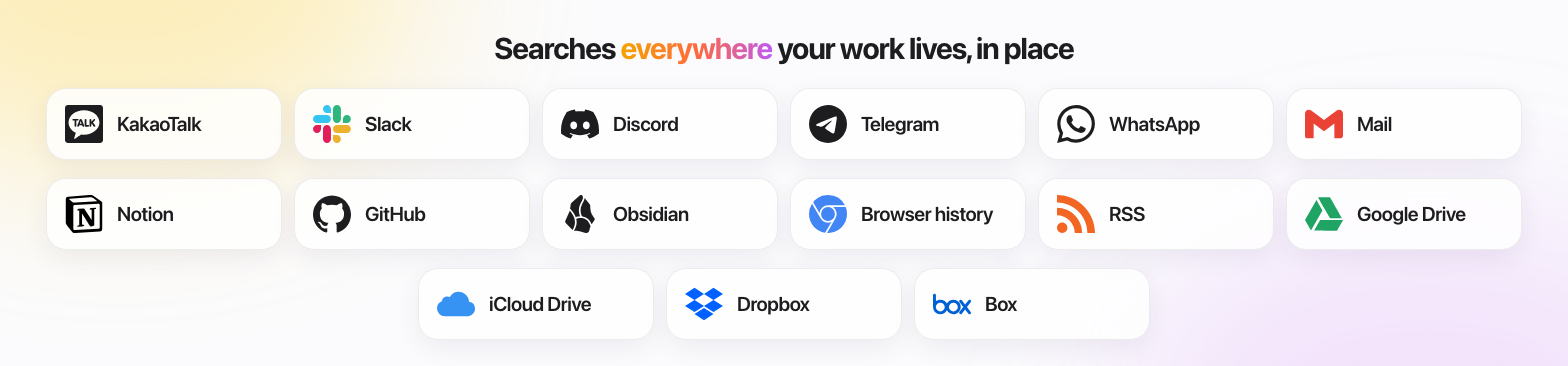
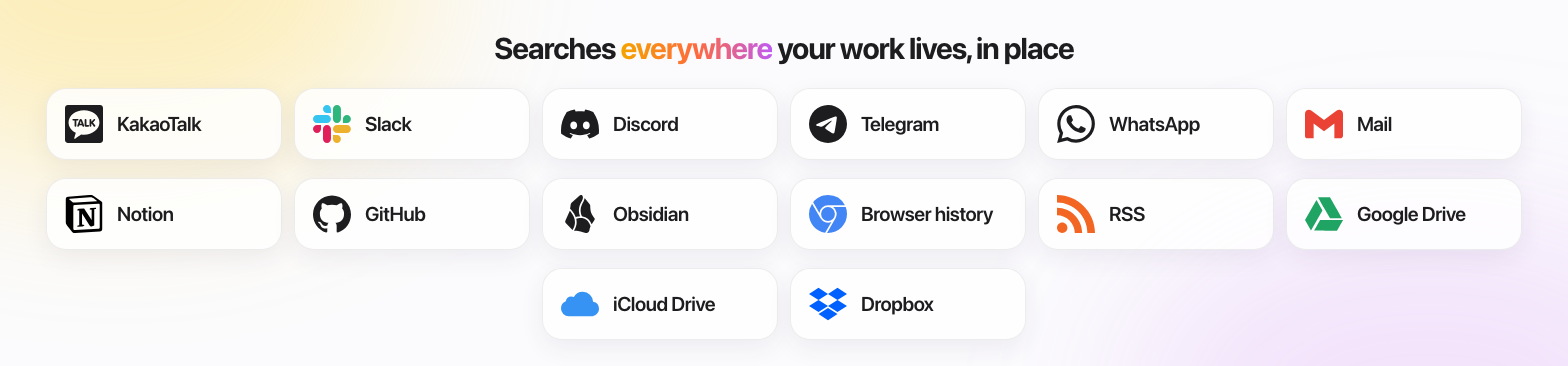
docs(readme): drop Box from the supported-sources strip

Changed region(s): [[0.2812, 0.7814, 0.6562, 0.8716]]

diff --git a/assets/banner-src/datasources.html b/assets/banner-src/datasources.html
@@ -9,4 +9,4 @@ h2 em{font-style:normal;background:linear-gradient(90deg,#f5a300,#ff6a3d 50%,#bf
 .t{width:236px;height:72px;display:flex;align-items:center;gap:14px;padding:0 18px;border-radius:20px;background:rgba(255,255,255,.82);border:1px solid rgba(0,0,0,.07);box-shadow:0 8px 24px rgba(60,40,80,.07)}
 .t svg{width:38px;height:38px;flex:none}.t span{font-size:20px;font-weight:600;letter-spacing:-.02em;white-space:nowrap}
 </style><body><div class="glow a"></div><div class="glow b"></div>
-<h2>Searches <em>everywhere</em> your work lives, in place</h2><div class="g"><div class="t"><svg viewBox="0 0 24 24"><path fill="currentColor" d="M22.125 0H1.875C.8394 0 0 .8394 0 1.875v20.25C0 23.1606.8394 24 1.875 24h20.25C23.1606 24 24 23.1606 24 22.125V1.875C24 .8394 23.1606 0 22.125 0zM12 18.75c-.591 0-1.1697-.0413-1.7317-.1209-.5626.3965-3.813 2.6797-4.1198 2.7225 0 0-.1258.0489-.2328-.0141s-.0876-.2282-.0876-.2282c.0322-.2198.8426-3.0183.992-3.5333-2.7452-1.36-4.5701-3.7686-4.5701-6.5135C2.25 6.8168 6.6152 3.375 12 3.375s9.75 3.4418 9.75 7.6875c0 4.2457-4.3652 7.6875-9.75 7.6875zM8.0496 9.8672h-.8777v3.3417c0 .2963-.2523.5372-.5625.5372s-.5625-.2409-.5625-.5372V9.8672h-.8777c-.3044 0-.552-.2471-.552-.5508s.2477-.5508.552-.5508h2.8804c.3044 0 .552.2471.552.5508s-.2477.5508-.552.5508zm10.9879 2.9566a.558.558 0 0 1 .108.4167.5588.5588 0 0 1-.2183.371.5572.5572 0 0 1-.3383.1135.558.558 0 0 1-.4493-.2236l-1.3192-1.7479-.1952.1952v1.2273a.5635.5635 0 0 1-.5627.5628.563.563 0 0 1-.5625-.5625V9.3281c0-.3102.2523-.5625.5625-.5625s.5625.2523.5625.5625v1.209l1.5694-1.5694c.0807-.0807.1916-.1252.312-.1252.1404 0 .2814.0606.3871.1661.0985.0984.1573.2251.1654.3566.0082.1327-.036.2542-.1241.3425l-1.2818 1.2817 1.3845 1.8344zm-8.3502-3.5023c-.095-.2699-.3829-.5475-.7503-.5557-.3663.0083-.6542.2858-.749.5551l-1.3455 3.5415c-.1708.5305-.0217.7272.1333.7988a.8568.8568 0 0 0 .3576.0776c.2346 0 .4139-.0952.4678-.2481l.2787-.7297 1.7152.0001.2785.7292c.0541.1532.2335.2484.4681.2484a.8601.8601 0 0 0 .3576-.0775c.1551-.0713.3041-.2681.1329-.7999l-1.3449-3.5398zm-1.3116 2.4433l.5618-1.5961.5618 1.5961H9.3757zm5.9056 1.3836c0 .2843-.2418.5156-.5391.5156h-1.8047c-.2973 0-.5391-.2314-.5391-.5156V9.3281c0-.3102.2576-.5625.5742-.5625s.5742.2523.5742.5625v3.3047h1.1953c.2974 0 .5392.2314.5392.5156z"/></svg><span>KakaoTalk</span></div><div class="t"><svg viewBox="0 0 256 256"><path fill="#E01E5A" d="M53.841 161.32c0 14.832-11.987 26.82-26.819 26.82S.203 176.152.203 161.32c0-14.831 11.987-26.818 26.82-26.818H53.84zm13.41 0c0-14.831 11.987-26.818 26.819-26.818s26.819 11.987 26.819 26.819v67.047c0 14.832-11.987 26.82-26.82 26.82c-14.83 0-26.818-11.988-26.818-26.82z"/><path fill="#36C5F0" d="M94.07 53.638c-14.832 0-26.82-11.987-26.82-26.819S79.239 0 94.07 0s26.819 11.987 26.819 26.819v26.82zm0 13.613c14.832 0 26.819 11.987 26.819 26.819s-11.987 26.819-26.82 26.819H26.82C11.987 120.889 0 108.902 0 94.069c0-14.83 11.987-26.818 26.819-26.818z"/><path fill="#2EB67D" d="M201.55 94.07c0-14.832 11.987-26.82 26.818-26.82s26.82 11.988 26.82 26.82s-11.988 26.819-26.82 26.819H201.55zm-13.41 0c0 14.832-11.988 26.819-26.82 26.819c-14.831 0-26.818-11.987-26.818-26.82V26.82C134.502 11.987 146.489 0 161.32 0s26.819 11.987 26.819 26.819z"/><path fill="#ECB22E" d="M161.32 201.55c14.832 0 26.82 11.987 26.82 26.818s-11.988 26.82-26.82 26.82c-14.831 0-26.818-11.988-26.818-26.82V201.55zm0-13.41c-14.831 0-26.818-11.988-26.818-26.82c0-14.831 11.987-26.818 26.819-26.818h67.25c14.832 0 26.82 11.987 26.82 26.819s-11.988 26.819-26.82 26.819z"/></svg><span>Slack</span></div><div class="t"><svg viewBox="0 0 24 24"><path fill="currentColor" d="M20.317 4.3698a19.7913 19.7913 0 00-4.8851-1.5152.0741.0741 0 00-.0785.0371c-.211.3753-.4447.8648-.6083 1.2495-1.8447-.2762-3.68-.2762-5.4868 0-.1636-.3933-.4058-.8742-.6177-1.2495a.077.077 0 00-.0785-.037 19.7363 19.7363 0 00-4.8852 1.515.0699.0699 0 00-.0321.0277C.5334 9.0458-.319 13.5799.0992 18.0578a.0824.0824 0 00.0312.0561c2.0528 1.5076 4.0413 2.4228 5.9929 3.0294a.0777.0777 0 00.0842-.0276c.4616-.6304.8731-1.2952 1.226-1.9942a.076.076 0 00-.0416-.1057c-.6528-.2476-1.2743-.5495-1.8722-.8923a.077.077 0 01-.0076-.1277c.1258-.0943.2517-.1923.3718-.2914a.0743.0743 0 01.0776-.0105c3.9278 1.7933 8.18 1.7933 12.0614 0a.0739.0739 0 01.0785.0095c.1202.099.246.1981.3728.2924a.077.077 0 01-.0066.1276 12.2986 12.2986 0 01-1.873.8914.0766.0766 0 00-.0407.1067c.3604.698.7719 1.3628 1.225 1.9932a.076.076 0 00.0842.0286c1.961-.6067 3.9495-1.5219 6.0023-3.0294a.077.077 0 00.0313-.0552c.5004-5.177-.8382-9.6739-3.5485-13.6604a.061.061 0 00-.0312-.0286zM8.02 15.3312c-1.1825 0-2.1569-1.0857-2.1569-2.419 0-1.3332.9555-2.4189 2.157-2.4189 1.2108 0 2.1757 1.0952 2.1568 2.419 0 1.3332-.9555 2.4189-2.1569 2.4189zm7.9748 0c-1.1825 0-2.1569-1.0857-2.1569-2.419 0-1.3332.9554-2.4189 2.1569-2.4189 1.2108 0 2.1757 1.0952 2.1568 2.419 0 1.3332-.946 2.4189-2.1568 2.4189Z"/></svg><span>Discord</span></div><div class="t"><svg viewBox="0 0 24 24"><path fill="currentColor" d="M11.944 0A12 12 0 0 0 0 12a12 12 0 0 0 12 12 12 12 0 0 0 12-12A12 12 0 0 0 12 0a12 12 0 0 0-.056 0zm4.962 7.224c.1-.002.321.023.465.14a.506.506 0 0 1 .171.325c.016.093.036.306.02.472-.18 1.898-.962 6.502-1.36 8.627-.168.9-.499 1.201-.82 1.23-.696.065-1.225-.46-1.9-.902-1.056-.693-1.653-1.124-2.678-1.8-1.185-.78-.417-1.21.258-1.91.177-.184 3.247-2.977 3.307-3.23.007-.032.014-.15-.056-.212s-.174-.041-.249-.024c-.106.024-1.793 1.14-5.061 3.345-.48.33-.913.49-1.302.48-.428-.008-1.252-.241-1.865-.44-.752-.245-1.349-.374-1.297-.789.027-.216.325-.437.893-.663 3.498-1.524 5.83-2.529 6.998-3.014 3.332-1.386 4.025-1.627 4.476-1.635z"/></svg><span>Telegram</span></div><div class="t"><svg viewBox="0 0 24 24"><path fill="currentColor" d="M17.472 14.382c-.297-.149-1.758-.867-2.03-.967-.273-.099-.471-.148-.67.15-.197.297-.767.966-.94 1.164-.173.199-.347.223-.644.075-.297-.15-1.255-.463-2.39-1.475-.883-.788-1.48-1.761-1.653-2.059-.173-.297-.018-.458.13-.606.134-.133.298-.347.446-.52.149-.174.198-.298.298-.497.099-.198.05-.371-.025-.52-.075-.149-.669-1.612-.916-2.207-.242-.579-.487-.5-.669-.51-.173-.008-.371-.01-.57-.01-.198 0-.52.074-.792.372-.272.297-1.04 1.016-1.04 2.479 0 1.462 1.065 2.875 1.213 3.074.149.198 2.096 3.2 5.077 4.487.709.306 1.262.489 1.694.625.712.227 1.36.195 1.871.118.571-.085 1.758-.719 2.006-1.413.248-.694.248-1.289.173-1.413-.074-.124-.272-.198-.57-.347m-5.421 7.403h-.004a9.87 9.87 0 01-5.031-1.378l-.361-.214-3.741.982.998-3.648-.235-.374a9.86 9.86 0 01-1.51-5.26c.001-5.45 4.436-9.884 9.888-9.884 2.64 0 5.122 1.03 6.988 2.898a9.825 9.825 0 012.893 6.994c-.003 5.45-4.437 9.884-9.885 9.884m8.413-18.297A11.815 11.815 0 0012.05 0C5.495 0 .16 5.335.157 11.892c0 2.096.547 4.142 1.588 5.945L.057 24l6.305-1.654a11.882 11.882 0 005.683 1.448h.005c6.554 0 11.89-5.335 11.893-11.893a11.821 11.821 0 00-3.48-8.413Z"/></svg><span>WhatsApp</span></div><div class="t"><svg viewBox="0 0 24 24"><path fill="#EA4335" d="M24 5.457v13.909c0 .904-.732 1.636-1.636 1.636h-3.819V11.73L12 16.64l-6.545-4.91v9.273H1.636A1.636 1.636 0 0 1 0 19.366V5.457c0-2.023 2.309-3.178 3.927-1.964L5.455 4.64 12 9.548l6.545-4.91 1.528-1.145C21.69 2.28 24 3.434 24 5.457z"/></svg><span>Mail</span></div><div class="t"><svg viewBox="0 0 24 24"><path fill="#000000" d="M4.459 4.208c.746.606 1.026.56 2.428.466l13.215-.793c.28 0 .047-.28-.046-.326L17.86 1.968c-.42-.326-.981-.7-2.055-.607L3.01 2.295c-.466.046-.56.28-.374.466zm.793 3.08v13.904c0 .747.373 1.027 1.214.98l14.523-.84c.841-.046.935-.56.935-1.167V6.354c0-.606-.233-.933-.748-.887l-15.177.887c-.56.047-.747.327-.747.933zm14.337.745c.093.42 0 .84-.42.888l-.7.14v10.264c-.608.327-1.168.514-1.635.514-.748 0-.935-.234-1.495-.933l-4.577-7.186v6.952L12.21 19s0 .84-1.168.84l-3.222.186c-.093-.186 0-.653.327-.746l.84-.233V9.854L7.822 9.76c-.094-.42.14-1.026.793-1.073l3.456-.233 4.764 7.279v-6.44l-1.215-.139c-.093-.514.28-.887.747-.933zM1.936 1.035l13.31-.98c1.634-.14 2.055-.047 3.082.7l4.249 2.986c.7.513.934.653.934 1.213v16.378c0 1.026-.373 1.634-1.68 1.726l-15.458.934c-.98.047-1.448-.093-1.962-.747l-3.129-4.06c-.56-.747-.793-1.306-.793-1.96V2.667c0-.839.374-1.54 1.447-1.632z"/></svg><span>Notion</span></div><div class="t"><svg viewBox="0 0 24 24"><path fill="currentColor" d="M12 .297c-6.63 0-12 5.373-12 12 0 5.303 3.438 9.8 8.205 11.385.6.113.82-.258.82-.577 0-.285-.01-1.04-.015-2.04-3.338.724-4.042-1.61-4.042-1.61C4.422 18.07 3.633 17.7 3.633 17.7c-1.087-.744.084-.729.084-.729 1.205.084 1.838 1.236 1.838 1.236 1.07 1.835 2.809 1.305 3.495.998.108-.776.417-1.305.76-1.605-2.665-.3-5.466-1.332-5.466-5.93 0-1.31.465-2.38 1.235-3.22-.135-.303-.54-1.523.105-3.176 0 0 1.005-.322 3.3 1.23.96-.267 1.98-.399 3-.405 1.02.006 2.04.138 3 .405 2.28-1.552 3.285-1.23 3.285-1.23.645 1.653.24 2.873.12 3.176.765.84 1.23 1.91 1.23 3.22 0 4.61-2.805 5.625-5.475 5.92.42.36.81 1.096.81 2.22 0 1.606-.015 2.896-.015 3.286 0 .315.21.69.825.57C20.565 22.092 24 17.592 24 12.297c0-6.627-5.373-12-12-12"/></svg><span>GitHub</span></div><div class="t"><svg viewBox="0 0 24 24"><path fill="currentColor" d="M19.355 18.538a68.967 68.959 0 0 0 1.858-2.954.81.81 0 0 0-.062-.9c-.516-.685-1.504-2.075-2.042-3.362-.553-1.321-.636-3.375-.64-4.377a1.707 1.707 0 0 0-.358-1.05l-3.198-4.064a3.744 3.744 0 0 1-.076.543c-.106.503-.307 1.004-.536 1.5-.134.29-.29.6-.446.914l-.31.626c-.516 1.068-.997 2.227-1.132 3.59-.124 1.26.046 2.73.815 4.481.128.011.257.025.386.044a6.363 6.363 0 0 1 3.326 1.505c.916.79 1.744 1.922 2.415 3.5zM8.199 22.569c.073.012.146.02.22.02.78.024 2.095.092 3.16.29.87.16 2.593.64 4.01 1.055 1.083.316 2.198-.548 2.355-1.664.114-.814.33-1.735.725-2.58l-.01.005c-.67-1.87-1.522-3.078-2.416-3.849a5.295 5.295 0 0 0-2.778-1.257c-1.54-.216-2.952.19-3.84.45.532 2.218.368 4.829-1.425 7.531zM5.533 9.938c-.023.1-.056.197-.098.29L2.82 16.059a1.602 1.602 0 0 0 .313 1.772l4.116 4.24c2.103-3.101 1.796-6.02.836-8.3-.728-1.73-1.832-3.081-2.55-3.831zM9.32 14.01c.615-.183 1.606-.465 2.745-.534-.683-1.725-.848-3.233-.716-4.577.154-1.552.7-2.847 1.235-3.95.113-.235.223-.454.328-.664.149-.297.288-.577.419-.86.217-.47.379-.885.46-1.27.08-.38.08-.72-.014-1.043-.095-.325-.297-.675-.68-1.06a1.6 1.6 0 0 0-1.475.36l-4.95 4.452a1.602 1.602 0 0 0-.513.952l-.427 2.83c.672.59 2.328 2.316 3.335 4.711.09.21.175.43.253.653z"/></svg><span>Obsidian</span></div><div class="t"><svg viewBox="0 0 24 24"><path fill="#4285F4" d="M12 0C8.21 0 4.831 1.757 2.632 4.501l3.953 6.848A5.454 5.454 0 0 1 12 6.545h10.691A12 12 0 0 0 12 0zM1.931 5.47A11.943 11.943 0 0 0 0 12c0 6.012 4.42 10.991 10.189 11.864l3.953-6.847a5.45 5.45 0 0 1-6.865-2.29zm13.342 2.166a5.446 5.446 0 0 1 1.45 7.09l.002.001h-.002l-5.344 9.257c.206.01.413.016.621.016 6.627 0 12-5.373 12-12 0-1.54-.29-3.011-.818-4.364zM12 16.364a4.364 4.364 0 1 1 0-8.728 4.364 4.364 0 0 1 0 8.728Z"/></svg><span>Browser history</span></div><div class="t"><svg viewBox="0 0 24 24"><path fill="#F26522" d="M19.199 24C19.199 13.467 10.533 4.8 0 4.8V0c13.165 0 24 10.835 24 24h-4.801zM3.291 17.415c1.814 0 3.293 1.479 3.293 3.295 0 1.813-1.485 3.29-3.301 3.29C1.47 24 0 22.526 0 20.71s1.475-3.294 3.291-3.295zM15.909 24h-4.665c0-6.169-5.075-11.245-11.244-11.245V8.09c8.727 0 15.909 7.184 15.909 15.91z"/></svg><span>RSS</span></div><div class="t"><svg viewBox="0 0 24 24"><path fill="#1FA463" d="M12.01 1.485c-2.082 0-3.754.02-3.743.047.01.02 1.708 3.001 3.774 6.62l3.76 6.574h3.76c2.081 0 3.753-.02 3.742-.047-.005-.02-1.708-3.001-3.775-6.62l-3.76-6.574zm-4.76 1.73a789.828 789.861 0 0 0-3.63 6.319L0 15.868l1.89 3.298 1.885 3.297 3.62-6.335 3.618-6.33-1.88-3.287C8.1 4.704 7.255 3.22 7.25 3.214zm2.259 12.653-.203.348c-.114.198-.96 1.672-1.88 3.287a423.93 423.948 0 0 1-1.698 2.97c-.01.026 3.24.042 7.222.042h7.244l1.796-3.157c.992-1.734 1.85-3.23 1.906-3.323l.104-.167h-7.249z"/></svg><span>Google Drive</span></div><div class="t"><svg viewBox="0 0 24 24"><path fill="#3693F3" d="M13.762 4.29a6.51 6.51 0 0 0-5.669 3.332 3.571 3.571 0 0 0-1.558-.36 3.571 3.571 0 0 0-3.516 3A4.918 4.918 0 0 0 0 14.796a4.918 4.918 0 0 0 4.92 4.914 4.93 4.93 0 0 0 .617-.045h14.42c2.305-.272 4.041-2.258 4.043-4.589v-.009a4.594 4.594 0 0 0-3.727-4.508 6.51 6.51 0 0 0-6.511-6.27z"/></svg><span>iCloud Drive</span></div><div class="t"><svg viewBox="0 0 24 24"><path fill="#0061FF" d="M6 1.807L0 5.629l6 3.822 6.001-3.822L6 1.807zM18 1.807l-6 3.822 6 3.822 6-3.822-6-3.822zM0 13.274l6 3.822 6.001-3.822L6 9.452l-6 3.822zM18 9.452l-6 3.822 6 3.822 6-3.822-6-3.822zM6 18.371l6.001 3.822 6-3.822-6-3.822L6 18.371z"/></svg><span>Dropbox</span></div><div class="t"><svg viewBox="0 0 24 24"><path fill="#0061D5" d="M.959 5.523c-.54 0-.959.42-.959.899v7.549a4.59 4.59 0 004.613 4.494 4.717 4.717 0 004.135-2.457c.779 1.438 2.337 2.457 4.074 2.457 2.577 0 4.674-2.037 4.674-4.613.06-2.457-2.037-4.495-4.613-4.495-1.738 0-3.295.959-4.074 2.397-.78-1.438-2.338-2.397-4.135-2.397-1.079 0-2.038.36-2.817.899V6.422a.92.92 0 00-.898-.899zM17.602 9.26a.95.95 0 00-.704.158c-.36.3-.479.899-.18 1.318l2.397 3.116-2.396 3.115c-.3.42-.24.96.18 1.26.419.3 1.016.298 1.316-.122l2.039-2.636 2.096 2.697c.3.36.899.419 1.318.12.36-.3.42-.84.121-1.259l-2.338-3.115 2.338-3.057c.3-.419.298-1.018-.121-1.318-.48-.3-1.019-.24-1.318.18l-2.096 2.576-2.04-2.695c-.149-.18-.373-.3-.612-.338zM4.613 11.154c1.558 0 2.817 1.26 2.817 2.758 0 1.558-1.259 2.756-2.817 2.756-1.558 0-2.816-1.198-2.816-2.756 0-1.498 1.258-2.758 2.816-2.758zm8.27 0c1.558 0 2.816 1.26 2.816 2.758-.06 1.558-1.318 2.756-2.816 2.756-1.558 0-2.817-1.198-2.817-2.756 0-1.498 1.259-2.758 2.817-2.758Z"/></svg><span>Box</span></div></div></body>
+<h2>Searches <em>everywhere</em> your work lives, in place</h2><div class="g"><div class="t"><svg viewBox="0 0 24 24"><path fill="currentColor" d="M22.125 0H1.875C.8394 0 0 .8394 0 1.875v20.25C0 23.1606.8394 24 1.875 24h20.25C23.1606 24 24 23.1606 24 22.125V1.875C24 .8394 23.1606 0 22.125 0zM12 18.75c-.591 0-1.1697-.0413-1.7317-.1209-.5626.3965-3.813 2.6797-4.1198 2.7225 0 0-.1258.0489-.2328-.0141s-.0876-.2282-.0876-.2282c.0322-.2198.8426-3.0183.992-3.5333-2.7452-1.36-4.5701-3.7686-4.5701-6.5135C2.25 6.8168 6.6152 3.375 12 3.375s9.75 3.4418 9.75 7.6875c0 4.2457-4.3652 7.6875-9.75 7.6875zM8.0496 9.8672h-.8777v3.3417c0 .2963-.2523.5372-.5625.5372s-.5625-.2409-.5625-.5372V9.8672h-.8777c-.3044 0-.552-.2471-.552-.5508s.2477-.5508.552-.5508h2.8804c.3044 0 .552.2471.552.5508s-.2477.5508-.552.5508zm10.9879 2.9566a.558.558 0 0 1 .108.4167.5588.5588 0 0 1-.2183.371.5572.5572 0 0 1-.3383.1135.558.558 0 0 1-.4493-.2236l-1.3192-1.7479-.1952.1952v1.2273a.5635.5635 0 0 1-.5627.5628.563.563 0 0 1-.5625-.5625V9.3281c0-.3102.2523-.5625.5625-.5625s.5625.2523.5625.5625v1.209l1.5694-1.5694c.0807-.0807.1916-.1252.312-.1252.1404 0 .2814.0606.3871.1661.0985.0984.1573.2251.1654.3566.0082.1327-.036.2542-.1241.3425l-1.2818 1.2817 1.3845 1.8344zm-8.3502-3.5023c-.095-.2699-.3829-.5475-.7503-.5557-.3663.0083-.6542.2858-.749.5551l-1.3455 3.5415c-.1708.5305-.0217.7272.1333.7988a.8568.8568 0 0 0 .3576.0776c.2346 0 .4139-.0952.4678-.2481l.2787-.7297 1.7152.0001.2785.7292c.0541.1532.2335.2484.4681.2484a.8601.8601 0 0 0 .3576-.0775c.1551-.0713.3041-.2681.1329-.7999l-1.3449-3.5398zm-1.3116 2.4433l.5618-1.5961.5618 1.5961H9.3757zm5.9056 1.3836c0 .2843-.2418.5156-.5391.5156h-1.8047c-.2973 0-.5391-.2314-.5391-.5156V9.3281c0-.3102.2576-.5625.5742-.5625s.5742.2523.5742.5625v3.3047h1.1953c.2974 0 .5392.2314.5392.5156z"/></svg><span>KakaoTalk</span></div><div class="t"><svg viewBox="0 0 256 256"><path fill="#E01E5A" d="M53.841 161.32c0 14.832-11.987 26.82-26.819 26.82S.203 176.152.203 161.32c0-14.831 11.987-26.818 26.82-26.818H53.84zm13.41 0c0-14.831 11.987-26.818 26.819-26.818s26.819 11.987 26.819 26.819v67.047c0 14.832-11.987 26.82-26.82 26.82c-14.83 0-26.818-11.988-26.818-26.82z"/><path fill="#36C5F0" d="M94.07 53.638c-14.832 0-26.82-11.987-26.82-26.819S79.239 0 94.07 0s26.819 11.987 26.819 26.819v26.82zm0 13.613c14.832 0 26.819 11.987 26.819 26.819s-11.987 26.819-26.82 26.819H26.82C11.987 120.889 0 108.902 0 94.069c0-14.83 11.987-26.818 26.819-26.818z"/><path fill="#2EB67D" d="M201.55 94.07c0-14.832 11.987-26.82 26.818-26.82s26.82 11.988 26.82 26.82s-11.988 26.819-26.82 26.819H201.55zm-13.41 0c0 14.832-11.988 26.819-26.82 26.819c-14.831 0-26.818-11.987-26.818-26.82V26.82C134.502 11.987 146.489 0 161.32 0s26.819 11.987 26.819 26.819z"/><path fill="#ECB22E" d="M161.32 201.55c14.832 0 26.82 11.987 26.82 26.818s-11.988 26.82-26.82 26.82c-14.831 0-26.818-11.988-26.818-26.82V201.55zm0-13.41c-14.831 0-26.818-11.988-26.818-26.82c0-14.831 11.987-26.818 26.819-26.818h67.25c14.832 0 26.82 11.987 26.82 26.819s-11.988 26.819-26.82 26.819z"/></svg><span>Slack</span></div><div class="t"><svg viewBox="0 0 24 24"><path fill="currentColor" d="M20.317 4.3698a19.7913 19.7913 0 00-4.8851-1.5152.0741.0741 0 00-.0785.0371c-.211.3753-.4447.8648-.6083 1.2495-1.8447-.2762-3.68-.2762-5.4868 0-.1636-.3933-.4058-.8742-.6177-1.2495a.077.077 0 00-.0785-.037 19.7363 19.7363 0 00-4.8852 1.515.0699.0699 0 00-.0321.0277C.5334 9.0458-.319 13.5799.0992 18.0578a.0824.0824 0 00.0312.0561c2.0528 1.5076 4.0413 2.4228 5.9929 3.0294a.0777.0777 0 00.0842-.0276c.4616-.6304.8731-1.2952 1.226-1.9942a.076.076 0 00-.0416-.1057c-.6528-.2476-1.2743-.5495-1.8722-.8923a.077.077 0 01-.0076-.1277c.1258-.0943.2517-.1923.3718-.2914a.0743.0743 0 01.0776-.0105c3.9278 1.7933 8.18 1.7933 12.0614 0a.0739.0739 0 01.0785.0095c.1202.099.246.1981.3728.2924a.077.077 0 01-.0066.1276 12.2986 12.2986 0 01-1.873.8914.0766.0766 0 00-.0407.1067c.3604.698.7719 1.3628 1.225 1.9932a.076.076 0 00.0842.0286c1.961-.6067 3.9495-1.5219 6.0023-3.0294a.077.077 0 00.0313-.0552c.5004-5.177-.8382-9.6739-3.5485-13.6604a.061.061 0 00-.0312-.0286zM8.02 15.3312c-1.1825 0-2.1569-1.0857-2.1569-2.419 0-1.3332.9555-2.4189 2.157-2.4189 1.2108 0 2.1757 1.0952 2.1568 2.419 0 1.3332-.9555 2.4189-2.1569 2.4189zm7.9748 0c-1.1825 0-2.1569-1.0857-2.1569-2.419 0-1.3332.9554-2.4189 2.1569-2.4189 1.2108 0 2.1757 1.0952 2.1568 2.419 0 1.3332-.946 2.4189-2.1568 2.4189Z"/></svg><span>Discord</span></div><div class="t"><svg viewBox="0 0 24 24"><path fill="currentColor" d="M11.944 0A12 12 0 0 0 0 12a12 12 0 0 0 12 12 12 12 0 0 0 12-12A12 12 0 0 0 12 0a12 12 0 0 0-.056 0zm4.962 7.224c.1-.002.321.023.465.14a.506.506 0 0 1 .171.325c.016.093.036.306.02.472-.18 1.898-.962 6.502-1.36 8.627-.168.9-.499 1.201-.82 1.23-.696.065-1.225-.46-1.9-.902-1.056-.693-1.653-1.124-2.678-1.8-1.185-.78-.417-1.21.258-1.91.177-.184 3.247-2.977 3.307-3.23.007-.032.014-.15-.056-.212s-.174-.041-.249-.024c-.106.024-1.793 1.14-5.061 3.345-.48.33-.913.49-1.302.48-.428-.008-1.252-.241-1.865-.44-.752-.245-1.349-.374-1.297-.789.027-.216.325-.437.893-.663 3.498-1.524 5.83-2.529 6.998-3.014 3.332-1.386 4.025-1.627 4.476-1.635z"/></svg><span>Telegram</span></div><div class="t"><svg viewBox="0 0 24 24"><path fill="currentColor" d="M17.472 14.382c-.297-.149-1.758-.867-2.03-.967-.273-.099-.471-.148-.67.15-.197.297-.767.966-.94 1.164-.173.199-.347.223-.644.075-.297-.15-1.255-.463-2.39-1.475-.883-.788-1.48-1.761-1.653-2.059-.173-.297-.018-.458.13-.606.134-.133.298-.347.446-.52.149-.174.198-.298.298-.497.099-.198.05-.371-.025-.52-.075-.149-.669-1.612-.916-2.207-.242-.579-.487-.5-.669-.51-.173-.008-.371-.01-.57-.01-.198 0-.52.074-.792.372-.272.297-1.04 1.016-1.04 2.479 0 1.462 1.065 2.875 1.213 3.074.149.198 2.096 3.2 5.077 4.487.709.306 1.262.489 1.694.625.712.227 1.36.195 1.871.118.571-.085 1.758-.719 2.006-1.413.248-.694.248-1.289.173-1.413-.074-.124-.272-.198-.57-.347m-5.421 7.403h-.004a9.87 9.87 0 01-5.031-1.378l-.361-.214-3.741.982.998-3.648-.235-.374a9.86 9.86 0 01-1.51-5.26c.001-5.45 4.436-9.884 9.888-9.884 2.64 0 5.122 1.03 6.988 2.898a9.825 9.825 0 012.893 6.994c-.003 5.45-4.437 9.884-9.885 9.884m8.413-18.297A11.815 11.815 0 0012.05 0C5.495 0 .16 5.335.157 11.892c0 2.096.547 4.142 1.588 5.945L.057 24l6.305-1.654a11.882 11.882 0 005.683 1.448h.005c6.554 0 11.89-5.335 11.893-11.893a11.821 11.821 0 00-3.48-8.413Z"/></svg><span>WhatsApp</span></div><div class="t"><svg viewBox="0 0 24 24"><path fill="#EA4335" d="M24 5.457v13.909c0 .904-.732 1.636-1.636 1.636h-3.819V11.73L12 16.64l-6.545-4.91v9.273H1.636A1.636 1.636 0 0 1 0 19.366V5.457c0-2.023 2.309-3.178 3.927-1.964L5.455 4.64 12 9.548l6.545-4.91 1.528-1.145C21.69 2.28 24 3.434 24 5.457z"/></svg><span>Mail</span></div><div class="t"><svg viewBox="0 0 24 24"><path fill="#000000" d="M4.459 4.208c.746.606 1.026.56 2.428.466l13.215-.793c.28 0 .047-.28-.046-.326L17.86 1.968c-.42-.326-.981-.7-2.055-.607L3.01 2.295c-.466.046-.56.28-.374.466zm.793 3.08v13.904c0 .747.373 1.027 1.214.98l14.523-.84c.841-.046.935-.56.935-1.167V6.354c0-.606-.233-.933-.748-.887l-15.177.887c-.56.047-.747.327-.747.933zm14.337.745c.093.42 0 .84-.42.888l-.7.14v10.264c-.608.327-1.168.514-1.635.514-.748 0-.935-.234-1.495-.933l-4.577-7.186v6.952L12.21 19s0 .84-1.168.84l-3.222.186c-.093-.186 0-.653.327-.746l.84-.233V9.854L7.822 9.76c-.094-.42.14-1.026.793-1.073l3.456-.233 4.764 7.279v-6.44l-1.215-.139c-.093-.514.28-.887.747-.933zM1.936 1.035l13.31-.98c1.634-.14 2.055-.047 3.082.7l4.249 2.986c.7.513.934.653.934 1.213v16.378c0 1.026-.373 1.634-1.68 1.726l-15.458.934c-.98.047-1.448-.093-1.962-.747l-3.129-4.06c-.56-.747-.793-1.306-.793-1.96V2.667c0-.839.374-1.54 1.447-1.632z"/></svg><span>Notion</span></div><div class="t"><svg viewBox="0 0 24 24"><path fill="currentColor" d="M12 .297c-6.63 0-12 5.373-12 12 0 5.303 3.438 9.8 8.205 11.385.6.113.82-.258.82-.577 0-.285-.01-1.04-.015-2.04-3.338.724-4.042-1.61-4.042-1.61C4.422 18.07 3.633 17.7 3.633 17.7c-1.087-.744.084-.729.084-.729 1.205.084 1.838 1.236 1.838 1.236 1.07 1.835 2.809 1.305 3.495.998.108-.776.417-1.305.76-1.605-2.665-.3-5.466-1.332-5.466-5.93 0-1.31.465-2.38 1.235-3.22-.135-.303-.54-1.523.105-3.176 0 0 1.005-.322 3.3 1.23.96-.267 1.98-.399 3-.405 1.02.006 2.04.138 3 .405 2.28-1.552 3.285-1.23 3.285-1.23.645 1.653.24 2.873.12 3.176.765.84 1.23 1.91 1.23 3.22 0 4.61-2.805 5.625-5.475 5.92.42.36.81 1.096.81 2.22 0 1.606-.015 2.896-.015 3.286 0 .315.21.69.825.57C20.565 22.092 24 17.592 24 12.297c0-6.627-5.373-12-12-12"/></svg><span>GitHub</span></div><div class="t"><svg viewBox="0 0 24 24"><path fill="currentColor" d="M19.355 18.538a68.967 68.959 0 0 0 1.858-2.954.81.81 0 0 0-.062-.9c-.516-.685-1.504-2.075-2.042-3.362-.553-1.321-.636-3.375-.64-4.377a1.707 1.707 0 0 0-.358-1.05l-3.198-4.064a3.744 3.744 0 0 1-.076.543c-.106.503-.307 1.004-.536 1.5-.134.29-.29.6-.446.914l-.31.626c-.516 1.068-.997 2.227-1.132 3.59-.124 1.26.046 2.73.815 4.481.128.011.257.025.386.044a6.363 6.363 0 0 1 3.326 1.505c.916.79 1.744 1.922 2.415 3.5zM8.199 22.569c.073.012.146.02.22.02.78.024 2.095.092 3.16.29.87.16 2.593.64 4.01 1.055 1.083.316 2.198-.548 2.355-1.664.114-.814.33-1.735.725-2.58l-.01.005c-.67-1.87-1.522-3.078-2.416-3.849a5.295 5.295 0 0 0-2.778-1.257c-1.54-.216-2.952.19-3.84.45.532 2.218.368 4.829-1.425 7.531zM5.533 9.938c-.023.1-.056.197-.098.29L2.82 16.059a1.602 1.602 0 0 0 .313 1.772l4.116 4.24c2.103-3.101 1.796-6.02.836-8.3-.728-1.73-1.832-3.081-2.55-3.831zM9.32 14.01c.615-.183 1.606-.465 2.745-.534-.683-1.725-.848-3.233-.716-4.577.154-1.552.7-2.847 1.235-3.95.113-.235.223-.454.328-.664.149-.297.288-.577.419-.86.217-.47.379-.885.46-1.27.08-.38.08-.72-.014-1.043-.095-.325-.297-.675-.68-1.06a1.6 1.6 0 0 0-1.475.36l-4.95 4.452a1.602 1.602 0 0 0-.513.952l-.427 2.83c.672.59 2.328 2.316 3.335 4.711.09.21.175.43.253.653z"/></svg><span>Obsidian</span></div><div class="t"><svg viewBox="0 0 24 24"><path fill="#4285F4" d="M12 0C8.21 0 4.831 1.757 2.632 4.501l3.953 6.848A5.454 5.454 0 0 1 12 6.545h10.691A12 12 0 0 0 12 0zM1.931 5.47A11.943 11.943 0 0 0 0 12c0 6.012 4.42 10.991 10.189 11.864l3.953-6.847a5.45 5.45 0 0 1-6.865-2.29zm13.342 2.166a5.446 5.446 0 0 1 1.45 7.09l.002.001h-.002l-5.344 9.257c.206.01.413.016.621.016 6.627 0 12-5.373 12-12 0-1.54-.29-3.011-.818-4.364zM12 16.364a4.364 4.364 0 1 1 0-8.728 4.364 4.364 0 0 1 0 8.728Z"/></svg><span>Browser history</span></div><div class="t"><svg viewBox="0 0 24 24"><path fill="#F26522" d="M19.199 24C19.199 13.467 10.533 4.8 0 4.8V0c13.165 0 24 10.835 24 24h-4.801zM3.291 17.415c1.814 0 3.293 1.479 3.293 3.295 0 1.813-1.485 3.29-3.301 3.29C1.47 24 0 22.526 0 20.71s1.475-3.294 3.291-3.295zM15.909 24h-4.665c0-6.169-5.075-11.245-11.244-11.245V8.09c8.727 0 15.909 7.184 15.909 15.91z"/></svg><span>RSS</span></div><div class="t"><svg viewBox="0 0 24 24"><path fill="#1FA463" d="M12.01 1.485c-2.082 0-3.754.02-3.743.047.01.02 1.708 3.001 3.774 6.62l3.76 6.574h3.76c2.081 0 3.753-.02 3.742-.047-.005-.02-1.708-3.001-3.775-6.62l-3.76-6.574zm-4.76 1.73a789.828 789.861 0 0 0-3.63 6.319L0 15.868l1.89 3.298 1.885 3.297 3.62-6.335 3.618-6.33-1.88-3.287C8.1 4.704 7.255 3.22 7.25 3.214zm2.259 12.653-.203.348c-.114.198-.96 1.672-1.88 3.287a423.93 423.948 0 0 1-1.698 2.97c-.01.026 3.24.042 7.222.042h7.244l1.796-3.157c.992-1.734 1.85-3.23 1.906-3.323l.104-.167h-7.249z"/></svg><span>Google Drive</span></div><div class="t"><svg viewBox="0 0 24 24"><path fill="#3693F3" d="M13.762 4.29a6.51 6.51 0 0 0-5.669 3.332 3.571 3.571 0 0 0-1.558-.36 3.571 3.571 0 0 0-3.516 3A4.918 4.918 0 0 0 0 14.796a4.918 4.918 0 0 0 4.92 4.914 4.93 4.93 0 0 0 .617-.045h14.42c2.305-.272 4.041-2.258 4.043-4.589v-.009a4.594 4.594 0 0 0-3.727-4.508 6.51 6.51 0 0 0-6.511-6.27z"/></svg><span>iCloud Drive</span></div><div class="t"><svg viewBox="0 0 24 24"><path fill="#0061FF" d="M6 1.807L0 5.629l6 3.822 6.001-3.822L6 1.807zM18 1.807l-6 3.822 6 3.822 6-3.822-6-3.822zM0 13.274l6 3.822 6.001-3.822L6 9.452l-6 3.822zM18 9.452l-6 3.822 6 3.822 6-3.822-6-3.822zM6 18.371l6.001 3.822 6-3.822-6-3.822L6 18.371z"/></svg><span>Dropbox</span></div></div></body>

diff --git a/README.md b/README.md
@@ -118,10 +118,10 @@ Japanese, and Simplified Chinese.
 ### Every place, one search
 
 <p align="center">
-  <img src="assets/autorag-agent-datasources.png" alt="Supported sources: KakaoTalk, Slack, Discord, Telegram, WhatsApp, Mail, Notion, GitHub, Obsidian, browser history, RSS, Google Drive, iCloud Drive, Dropbox, Box" width="100%" />
+  <img src="assets/autorag-agent-datasources.png" alt="Supported sources: KakaoTalk, Slack, Discord, Telegram, WhatsApp, Mail, Notion, GitHub, Obsidian, browser history, RSS, Google Drive, iCloud Drive, Dropbox" width="100%" />
 </p>
 
-Cloud drives (Google Drive, iCloud Drive, OneDrive, Dropbox, Box, and others) are searched through their synced folders. Plus local documents, GitHub Gists, coding-agent sessions, and photos. Data stays in each tool's own store. [Full list and setup](docs/datasource-skills.md).
+Cloud drives (Google Drive, iCloud Drive, OneDrive, Dropbox, and others) are searched through their synced folders. Plus local documents, GitHub Gists, coding-agent sessions, and photos. Data stays in each tool's own store. [Full list and setup](docs/datasource-skills.md).
 
 ### Private by design
 
